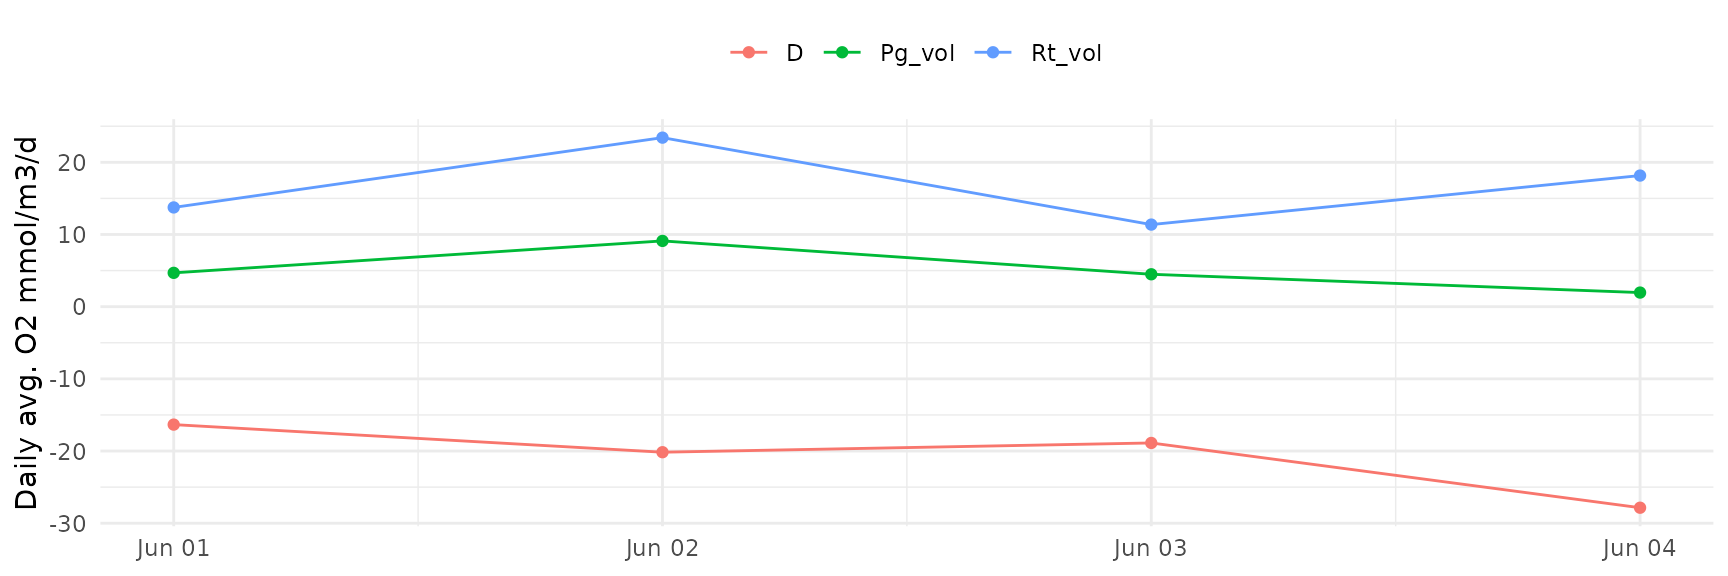
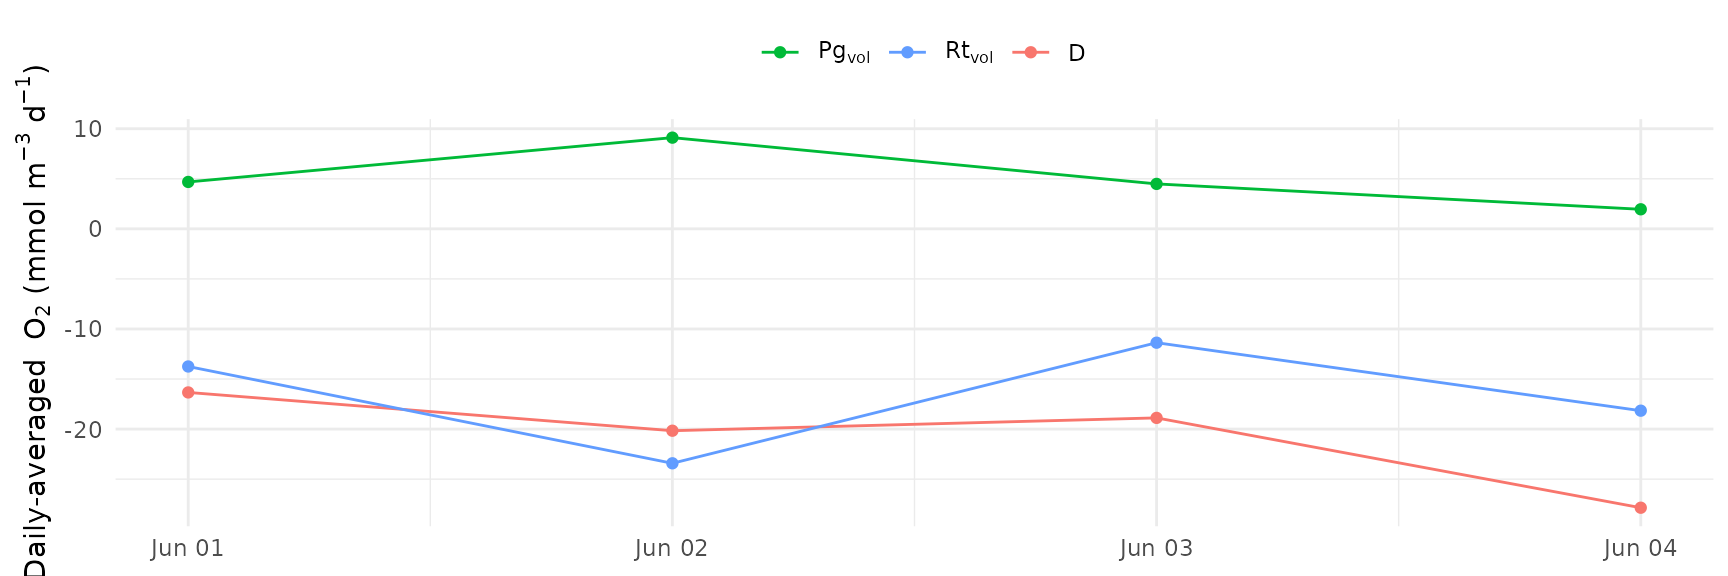
Built site for EBASE: 0.0.0.9000@430d1d3

diff --git a/reference/ebase_plot.html b/reference/ebase_plot.html
@@ -1,0 +1,125 @@
+<!DOCTYPE html>
+<!-- Generated by pkgdown: do not edit by hand --><html lang="en"><head><meta http-equiv="Content-Type" content="text/html; charset=UTF-8"><meta charset="utf-8"><meta http-equiv="X-UA-Compatible" content="IE=edge"><meta name="viewport" content="width=device-width, initial-scale=1, shrink-to-fit=no"><meta name="description" content="Plot results from EBASE"><title>Plot results from EBASE — ebase_plot • EBASE</title><script src="../deps/jquery-3.6.0/jquery-3.6.0.min.js"></script><meta name="viewport" content="width=device-width, initial-scale=1, shrink-to-fit=no"><link href="../deps/bootstrap-5.1.0/bootstrap.min.css" rel="stylesheet"><script src="../deps/bootstrap-5.1.0/bootstrap.bundle.min.js"></script><!-- Font Awesome icons --><link rel="stylesheet" href="https://cdnjs.cloudflare.com/ajax/libs/font-awesome/5.12.1/css/all.min.css" integrity="sha256-mmgLkCYLUQbXn0B1SRqzHar6dCnv9oZFPEC1g1cwlkk=" crossorigin="anonymous"><link rel="stylesheet" href="https://cdnjs.cloudflare.com/ajax/libs/font-awesome/5.12.1/css/v4-shims.min.css" integrity="sha256-wZjR52fzng1pJHwx4aV2AO3yyTOXrcDW7jBpJtTwVxw=" crossorigin="anonymous"><!-- bootstrap-toc --><script src="https://cdn.rawgit.com/afeld/bootstrap-toc/v1.0.1/dist/bootstrap-toc.min.js"></script><!-- headroom.js --><script src="https://cdnjs.cloudflare.com/ajax/libs/headroom/0.11.0/headroom.min.js" integrity="sha256-AsUX4SJE1+yuDu5+mAVzJbuYNPHj/WroHuZ8Ir/CkE0=" crossorigin="anonymous"></script><script src="https://cdnjs.cloudflare.com/ajax/libs/headroom/0.11.0/jQuery.headroom.min.js" integrity="sha256-ZX/yNShbjqsohH1k95liqY9Gd8uOiE1S4vZc+9KQ1K4=" crossorigin="anonymous"></script><!-- clipboard.js --><script src="https://cdnjs.cloudflare.com/ajax/libs/clipboard.js/2.0.6/clipboard.min.js" integrity="sha256-inc5kl9MA1hkeYUt+EC3BhlIgyp/2jDIyBLS6k3UxPI=" crossorigin="anonymous"></script><!-- search --><script src="https://cdnjs.cloudflare.com/ajax/libs/fuse.js/6.4.6/fuse.js" integrity="sha512-zv6Ywkjyktsohkbp9bb45V6tEMoWhzFzXis+LrMehmJZZSys19Yxf1dopHx7WzIKxr5tK2dVcYmaCk2uqdjF4A==" crossorigin="anonymous"></script><script src="https://cdnjs.cloudflare.com/ajax/libs/autocomplete.js/0.38.0/autocomplete.jquery.min.js" integrity="sha512-GU9ayf+66Xx2TmpxqJpliWbT5PiGYxpaG8rfnBEk1LL8l1KGkRShhngwdXK1UgqhAzWpZHSiYPc09/NwDQIGyg==" crossorigin="anonymous"></script><script src="https://cdnjs.cloudflare.com/ajax/libs/mark.js/8.11.1/mark.min.js" integrity="sha512-5CYOlHXGh6QpOFA/TeTylKLWfB3ftPsde7AnmhuitiTX4K5SqCLBeKro6sPS8ilsz1Q4NRx3v8Ko2IBiszzdww==" crossorigin="anonymous"></script><!-- pkgdown --><script src="../pkgdown.js"></script><meta property="og:title" content="Plot results from EBASE — ebase_plot"><meta property="og:description" content="Plot results from EBASE"><!-- mathjax --><script src="https://cdnjs.cloudflare.com/ajax/libs/mathjax/2.7.5/MathJax.js" integrity="sha256-nvJJv9wWKEm88qvoQl9ekL2J+k/RWIsaSScxxlsrv8k=" crossorigin="anonymous"></script><script src="https://cdnjs.cloudflare.com/ajax/libs/mathjax/2.7.5/config/TeX-AMS-MML_HTMLorMML.js" integrity="sha256-84DKXVJXs0/F8OTMzX4UR909+jtl4G7SPypPavF+GfA=" crossorigin="anonymous"></script><!--[if lt IE 9]>
+<script src="https://oss.maxcdn.com/html5shiv/3.7.3/html5shiv.min.js"></script>
+<script src="https://oss.maxcdn.com/respond/1.4.2/respond.min.js"></script>
+<![endif]--></head><body>
+    <a href="#main" class="visually-hidden-focusable">Skip to contents</a>
+    
+
+    <nav class="navbar fixed-top navbar-light navbar-expand-lg bg-light"><div class="container">
+    
+    <a class="navbar-brand me-2" href="../index.html">EBASE</a>
+
+    <small class="nav-text text-muted me-auto" data-bs-toggle="tooltip" data-bs-placement="bottom" title="">0.0.0.9000</small>
+
+    
+    <button class="navbar-toggler" type="button" data-bs-toggle="collapse" data-bs-target="#navbar" aria-controls="navbar" aria-expanded="false" aria-label="Toggle navigation">
+      <span class="navbar-toggler-icon"></span>
+    </button>
+
+    <div id="navbar" class="collapse navbar-collapse ms-3">
+      <ul class="navbar-nav me-auto"><li class="active nav-item">
+  <a class="nav-link" href="../reference/index.html">Reference</a>
+</li>
+<li class="nav-item dropdown">
+  <a href="#" class="nav-link dropdown-toggle" data-bs-toggle="dropdown" role="button" aria-expanded="false" aria-haspopup="true" id="dropdown-articles">Articles</a>
+  <div class="dropdown-menu" aria-labelledby="dropdown-articles">
+    <a class="dropdown-item" href="../articles/ebase-overview.html">EBASE overview</a>
+  </div>
+</li>
+      </ul><form class="form-inline my-2 my-lg-0" role="search">
+        <input type="search" class="form-control me-sm-2" aria-label="Toggle navigation" name="search-input" data-search-index="../search.json" id="search-input" placeholder="Search for" autocomplete="off"></form>
+
+      <ul class="navbar-nav"><li class="nav-item">
+  <a class="external-link nav-link" href="https://github.com/fawda123/EBASE/" aria-label="github">
+    <span class="fab fa fab fa-github fa-lg"></span>
+     
+  </a>
+</li>
+      </ul></div>
+
+    
+  </div>
+</nav><div class="container template-reference-topic">
+<div class="row">
+  <main id="main" class="col-md-9"><div class="page-header">
+      <img src="" class="logo" alt=""><h1>Plot results from EBASE</h1>
+      <small class="dont-index">Source: <a href="https://github.com/fawda123/EBASE/blob/HEAD/R/ebase_plot.R" class="external-link"><code>R/ebase_plot.R</code></a></small>
+      <div class="d-none name"><code>ebase_plot.Rd</code></div>
+    </div>
+
+    <div class="ref-description section level2">
+    <p>Plot results from EBASE</p>
+    </div>
+
+    <div class="section level2">
+    <h2 id="ref-usage">Usage<a class="anchor" aria-label="anchor" href="#ref-usage"></a></h2>
+    <div class="sourceCode"><pre class="sourceCode r"><code><span class="fu">ebase_plot</span><span class="op">(</span><span class="va">res</span>, instantaneous <span class="op">=</span> <span class="cn">TRUE</span><span class="op">)</span></code></pre></div>
+    </div>
+
+    <div class="section level2">
+    <h2 id="arguments">Arguments<a class="anchor" aria-label="anchor" href="#arguments"></a></h2>
+    <dl><dt>res</dt>
+<dd><p>output data frame from <code><a href="ebase.html">ebase</a></code></p></dd>
+<dt>instantaneous</dt>
+<dd><p>logical indicating if results are instantaneous (default) or averaged to daily</p></dd>
+</dl></div>
+    <div class="section level2">
+    <h2 id="value">Value<a class="anchor" aria-label="anchor" href="#value"></a></h2>
+    <p>A <code><a href="https://ggplot2.tidyverse.org/reference/ggplot.html" class="external-link">ggplot</a></code> object</p>
+    </div>
+    <div class="section level2">
+    <h2 id="details">Details<a class="anchor" aria-label="anchor" href="#details"></a></h2>
+    <p>Both <code>D</code> and <code>Rt_vol</code> are plotted as negative values to express their contribution to net metabolism.</p>
+    </div>
+
+    <div class="section level2">
+    <h2 id="ref-examples">Examples<a class="anchor" aria-label="anchor" href="#ref-examples"></a></h2>
+    <div class="sourceCode"><pre class="sourceCode r"><code><span class="r-in"><span class="kw"><a href="https://rdrr.io/r/base/library.html" class="external-link">library</a></span><span class="op">(</span><span class="va"><a href="https://dplyr.tidyverse.org" class="external-link">dplyr</a></span><span class="op">)</span></span>
+<span class="r-in"><span class="kw"><a href="https://rdrr.io/r/base/library.html" class="external-link">library</a></span><span class="op">(</span><span class="va"><a href="https://lubridate.tidyverse.org" class="external-link">lubridate</a></span><span class="op">)</span></span>
+<span class="r-in"><span class="kw"><a href="https://rdrr.io/r/base/library.html" class="external-link">library</a></span><span class="op">(</span><span class="va"><a href="https://github.com/RevolutionAnalytics/doparallel" class="external-link">doParallel</a></span><span class="op">)</span></span>
+<span class="r-in"></span>
+<span class="r-in"><span class="co"># get four days of data</span></span>
+<span class="r-in"><span class="va">dat</span> <span class="op">&lt;-</span> <span class="va">exdat</span> <span class="op"><a href="https://magrittr.tidyverse.org/reference/pipe.html" class="external-link">%&gt;%</a></span> </span>
+<span class="r-in">  <span class="fu"><a href="https://dplyr.tidyverse.org/reference/filter.html" class="external-link">filter</a></span><span class="op">(</span><span class="fu"><a href="https://lubridate.tidyverse.org/reference/month.html" class="external-link">month</a></span><span class="op">(</span><span class="va">exdat</span><span class="op">$</span><span class="va">DateTimeStamp</span><span class="op">)</span> <span class="op">==</span> <span class="fl">6</span> <span class="op">&amp;</span> <span class="fu"><a href="https://lubridate.tidyverse.org/reference/day.html" class="external-link">day</a></span><span class="op">(</span><span class="va">exdat</span><span class="op">$</span><span class="va">DateTimeStamp</span><span class="op">)</span> <span class="op"><a href="https://rdrr.io/r/base/match.html" class="external-link">%in%</a></span> <span class="fl">1</span><span class="op">:</span><span class="fl">4</span><span class="op">)</span></span>
+<span class="r-in"></span>
+<span class="r-in"><span class="co"># run ebase with defaults, parallel</span></span>
+<span class="r-in"></span>
+<span class="r-in"><span class="co"># setup parallel backend</span></span>
+<span class="r-in"><span class="va">cl</span> <span class="op">&lt;-</span> <span class="fu"><a href="https://rdrr.io/r/parallel/makeCluster.html" class="external-link">makeCluster</a></span><span class="op">(</span><span class="fl">2</span><span class="op">)</span></span>
+<span class="r-in"><span class="fu"><a href="https://rdrr.io/pkg/doParallel/man/registerDoParallel.html" class="external-link">registerDoParallel</a></span><span class="op">(</span><span class="va">cl</span><span class="op">)</span></span>
+<span class="r-in"></span>
+<span class="r-in"><span class="va">res</span> <span class="op">&lt;-</span> <span class="fu"><a href="ebase.html">ebase</a></span><span class="op">(</span><span class="va">dat</span>, interval <span class="op">=</span> <span class="fl">900</span>, H <span class="op">=</span> <span class="fl">1.85</span>, progress <span class="op">=</span> <span class="cn">TRUE</span>, n.chains <span class="op">=</span> <span class="fl">2</span><span class="op">)</span></span>
+<span class="r-wrn co"><span class="r-pr">#&gt;</span> <span class="warning">Warning: </span>already exporting variable(s): mod_in</span>
+<span class="r-in"></span>
+<span class="r-in"><span class="fu"><a href="https://rdrr.io/r/parallel/makeCluster.html" class="external-link">stopCluster</a></span><span class="op">(</span><span class="va">cl</span><span class="op">)</span></span>
+<span class="r-in"></span>
+<span class="r-in"><span class="co"># plot instantaneous</span></span>
+<span class="r-in"><span class="fu">ebase_plot</span><span class="op">(</span><span class="va">res</span><span class="op">)</span></span>
+<span class="r-plt img"><img src="ebase_plot-1.png" alt="" width="700" height="433"></span>
+<span class="r-in"></span>
+<span class="r-in"><span class="co"># plot daily-averaged</span></span>
+<span class="r-in"><span class="fu">ebase_plot</span><span class="op">(</span><span class="va">res</span>, instantaneous <span class="op">=</span> <span class="cn">FALSE</span><span class="op">)</span></span>
+<span class="r-plt img"><img src="ebase_plot-2.png" alt="" width="700" height="433"></span>
+</code></pre></div>
+    </div>
+  </main><aside class="col-md-3"><nav id="toc"><h2>On this page</h2>
+    </nav></aside></div>
+
+
+    <footer><div class="pkgdown-footer-left">
+  <p></p><p>Developed by Marcus Beck, Maria Herrmann, Jill Arriola, Raymond Najjar, Wade McGillis.</p>
+</div>
+
+<div class="pkgdown-footer-right">
+  <p></p><p>Site built with <a href="https://pkgdown.r-lib.org/" class="external-link">pkgdown</a> 2.0.2.</p>
+</div>
+
+    </footer></div>
+
+  
+
+  
+
+  </body></html>
+

diff --git a/articles/ebase-overview.html b/articles/ebase-overview.html
@@ -138,57 +138,21 @@
 <span class="co">#&gt; 5 2012-06-01 160.7834 161.8209 2012-06-01 01:00:00 -6.423503 0.00766078</span>
 <span class="co">#&gt; 6 2012-06-01 160.5211 161.7332 2012-06-01 01:15:00 -8.420908 0.00766078</span>
 <span class="co">#&gt; 7 2012-06-01 160.2787 161.6509 2012-06-01 01:30:00 -7.903096 0.00766078</span>
-<span class="co">#&gt;           b Pg_vol   Rt_vol         D</span>
-<span class="co">#&gt; 2 0.2259031      0 13.74739 -7.354905</span>
-<span class="co">#&gt; 3 0.2259031      0 13.74739 -9.665015</span>
-<span class="co">#&gt; 4 0.2259031      0 13.74739 -8.043508</span>
-<span class="co">#&gt; 5 0.2259031      0 13.74739 -7.323884</span>
-<span class="co">#&gt; 6 0.2259031      0 13.74739 -5.326479</span>
-<span class="co">#&gt; 7 0.2259031      0 13.74739 -5.844291</span></code></pre></div>
+<span class="co">#&gt;           b Pg_vol   Rt_vol        D</span>
+<span class="co">#&gt; 2 0.2259031      0 13.74739 7.354905</span>
+<span class="co">#&gt; 3 0.2259031      0 13.74739 9.665015</span>
+<span class="co">#&gt; 4 0.2259031      0 13.74739 8.043508</span>
+<span class="co">#&gt; 5 0.2259031      0 13.74739 7.323884</span>
+<span class="co">#&gt; 6 0.2259031      0 13.74739 5.326479</span>
+<span class="co">#&gt; 7 0.2259031      0 13.74739 5.844291</span></code></pre></div>
 <p>The results are returned as a data frame with instantaneous metabolic estimates for volumetric gross production (O2 mmol/m3/d, <code>Pg_vol</code> or <span class="math inline">\(aPAR\)</span> from above), respiration (O2 mmol/m3/d, <code>Rt_vol</code> or <span class="math inline">\(r\)</span> from above), and gas exchange (O2 mmol/m3/d, <code>D</code> or the remainder of the equation from abov). Additional parameters estimated by the model that are returned include <code>a</code> and <code>b</code> as shown in the above equation. The <code>a</code> parameter is a constant that represents the primary production per quantum of light with units of (mmol/m3/d)(W/m2) and is used to estimate gross production <span class="citation">(Grace et al. 2015)</span>. The <code>b</code> parameter is a constant used to estimate gas exchange in hr/cm (provided as 0.251 in eqn. 4 in <span class="citation">Wanninkhof (2014)</span>).</p>
-<p>A plot of the results can easily be made with <a href="https://ggplot2.tidyverse.org/" class="external-link">ggplot</a>. The instantaneous rates at the daily scale can be plotted after some wrangling with <a href="https://dplyr.tidyverse.org/" class="external-link">dplyr</a> and <a href="https://tidyr.tidyverse.org/" class="external-link">tidyr</a>. These packages are dependencies for EBASE and do not need to be separately installed.</p>
+<p>A plot of the results can be made with <code><a href="../reference/ebase_plot.html">ebase_plot()</a></code>.</p>
 <div class="sourceCode" id="cb6"><pre class="downlit sourceCode r">
-<code class="sourceCode R"><span class="kw"><a href="https://rdrr.io/r/base/library.html" class="external-link">library</a></span><span class="op">(</span><span class="va"><a href="https://ggplot2.tidyverse.org" class="external-link">ggplot2</a></span><span class="op">)</span>
-<span class="kw"><a href="https://rdrr.io/r/base/library.html" class="external-link">library</a></span><span class="op">(</span><span class="va"><a href="https://dplyr.tidyverse.org" class="external-link">dplyr</a></span><span class="op">)</span>
-<span class="kw"><a href="https://rdrr.io/r/base/library.html" class="external-link">library</a></span><span class="op">(</span><span class="va"><a href="https://tidyr.tidyverse.org" class="external-link">tidyr</a></span><span class="op">)</span>
-
-<span class="va">toplo</span> <span class="op">&lt;-</span> <span class="va">res</span> <span class="op"><a href="https://magrittr.tidyverse.org/reference/pipe.html" class="external-link">%&gt;%</a></span> 
-  <span class="fu"><a href="https://dplyr.tidyverse.org/reference/select.html" class="external-link">select</a></span><span class="op">(</span><span class="va">DateTimeStamp</span>, <span class="va">Pg_vol</span>, <span class="va">Rt_vol</span>, <span class="va">D</span><span class="op">)</span> <span class="op"><a href="https://magrittr.tidyverse.org/reference/pipe.html" class="external-link">%&gt;%</a></span> 
-  <span class="fu"><a href="https://tidyr.tidyverse.org/reference/pivot_longer.html" class="external-link">pivot_longer</a></span><span class="op">(</span>cols <span class="op">=</span> <span class="op">-</span><span class="fu"><a href="https://tidyselect.r-lib.org/reference/starts_with.html" class="external-link">matches</a></span><span class="op">(</span><span class="st">'DateTimeStamp'</span><span class="op">)</span><span class="op">)</span>
-
-<span class="fu"><a href="https://ggplot2.tidyverse.org/reference/ggplot.html" class="external-link">ggplot</a></span><span class="op">(</span><span class="va">toplo</span>, <span class="fu"><a href="https://ggplot2.tidyverse.org/reference/aes.html" class="external-link">aes</a></span><span class="op">(</span>x <span class="op">=</span> <span class="va">DateTimeStamp</span>, y <span class="op">=</span> <span class="va">value</span>, color <span class="op">=</span> <span class="va">name</span><span class="op">)</span><span class="op">)</span> <span class="op">+</span>
-  <span class="fu"><a href="https://ggplot2.tidyverse.org/reference/geom_path.html" class="external-link">geom_line</a></span><span class="op">(</span><span class="op">)</span> <span class="op">+</span> 
-  <span class="fu"><a href="https://ggplot2.tidyverse.org/reference/geom_point.html" class="external-link">geom_point</a></span><span class="op">(</span><span class="op">)</span> <span class="op">+</span> 
-  <span class="fu"><a href="https://ggplot2.tidyverse.org/reference/ggtheme.html" class="external-link">theme_minimal</a></span><span class="op">(</span><span class="op">)</span> <span class="op">+</span> 
-  <span class="fu"><a href="https://ggplot2.tidyverse.org/reference/theme.html" class="external-link">theme</a></span><span class="op">(</span>
-    legend.position <span class="op">=</span> <span class="st">'top'</span>
-  <span class="op">)</span> <span class="op">+</span>
-  <span class="fu"><a href="https://ggplot2.tidyverse.org/reference/labs.html" class="external-link">labs</a></span><span class="op">(</span>
-    y <span class="op">=</span> <span class="st">'Instantaneous O2 mmol/m3/d'</span>, 
-    color <span class="op">=</span> <span class="cn">NULL</span>, 
-    x <span class="op">=</span> <span class="cn">NULL</span>
-  <span class="op">)</span></code></pre></div>
+<code class="sourceCode R"><span class="fu"><a href="../reference/ebase_plot.html">ebase_plot</a></span><span class="op">(</span><span class="va">res</span><span class="op">)</span></code></pre></div>
 <p><img src="ebase-overview_files/figure-html/unnamed-chunk-5-1.png" width="864" style="display: block; margin: auto;"></p>
-<p>The daily averages can also be plotted after summarizing the results.</p>
+<p>The daily averages can also be plotted by using <code>instantaneous = FALSE</code>.</p>
 <div class="sourceCode" id="cb7"><pre class="downlit sourceCode r">
-<code class="sourceCode R"><span class="va">toplo</span> <span class="op">&lt;-</span> <span class="va">res</span> <span class="op"><a href="https://magrittr.tidyverse.org/reference/pipe.html" class="external-link">%&gt;%</a></span> 
-  <span class="fu"><a href="https://dplyr.tidyverse.org/reference/select.html" class="external-link">select</a></span><span class="op">(</span><span class="va">Date</span>, <span class="va">Pg_vol</span>, <span class="va">Rt_vol</span>, <span class="va">D</span><span class="op">)</span> <span class="op"><a href="https://magrittr.tidyverse.org/reference/pipe.html" class="external-link">%&gt;%</a></span> 
-  <span class="fu"><a href="https://tidyr.tidyverse.org/reference/pivot_longer.html" class="external-link">pivot_longer</a></span><span class="op">(</span>cols <span class="op">=</span> <span class="op">-</span><span class="fu"><a href="https://tidyselect.r-lib.org/reference/starts_with.html" class="external-link">matches</a></span><span class="op">(</span><span class="st">'Date'</span><span class="op">)</span><span class="op">)</span> <span class="op"><a href="https://magrittr.tidyverse.org/reference/pipe.html" class="external-link">%&gt;%</a></span> 
-  <span class="fu"><a href="https://dplyr.tidyverse.org/reference/group_by.html" class="external-link">group_by</a></span><span class="op">(</span><span class="va">Date</span>, <span class="va">name</span><span class="op">)</span> <span class="op"><a href="https://magrittr.tidyverse.org/reference/pipe.html" class="external-link">%&gt;%</a></span> 
-  <span class="fu"><a href="https://dplyr.tidyverse.org/reference/summarise.html" class="external-link">summarise</a></span><span class="op">(</span>value <span class="op">=</span> <span class="fu"><a href="https://rdrr.io/r/base/mean.html" class="external-link">mean</a></span><span class="op">(</span><span class="va">value</span>, na.rm <span class="op">=</span> <span class="cn">T</span><span class="op">)</span>, .groups <span class="op">=</span> <span class="st">'drop'</span><span class="op">)</span>
-
-<span class="fu"><a href="https://ggplot2.tidyverse.org/reference/ggplot.html" class="external-link">ggplot</a></span><span class="op">(</span><span class="va">toplo</span>, <span class="fu"><a href="https://ggplot2.tidyverse.org/reference/aes.html" class="external-link">aes</a></span><span class="op">(</span>x <span class="op">=</span> <span class="va">Date</span>, y <span class="op">=</span> <span class="va">value</span>, color <span class="op">=</span> <span class="va">name</span><span class="op">)</span><span class="op">)</span> <span class="op">+</span>
-  <span class="fu"><a href="https://ggplot2.tidyverse.org/reference/geom_path.html" class="external-link">geom_line</a></span><span class="op">(</span><span class="op">)</span> <span class="op">+</span> 
-  <span class="fu"><a href="https://ggplot2.tidyverse.org/reference/geom_point.html" class="external-link">geom_point</a></span><span class="op">(</span><span class="op">)</span> <span class="op">+</span> 
-  <span class="fu"><a href="https://ggplot2.tidyverse.org/reference/ggtheme.html" class="external-link">theme_minimal</a></span><span class="op">(</span><span class="op">)</span> <span class="op">+</span> 
-  <span class="fu"><a href="https://ggplot2.tidyverse.org/reference/theme.html" class="external-link">theme</a></span><span class="op">(</span>
-    legend.position <span class="op">=</span> <span class="st">'top'</span>
-  <span class="op">)</span> <span class="op">+</span>
-  <span class="fu"><a href="https://ggplot2.tidyverse.org/reference/labs.html" class="external-link">labs</a></span><span class="op">(</span>
-    y <span class="op">=</span> <span class="st">'Daily avg. O2 mmol/m3/d'</span>, 
-    color <span class="op">=</span> <span class="cn">NULL</span>, 
-    x <span class="op">=</span> <span class="cn">NULL</span>
-  <span class="op">)</span></code></pre></div>
+<code class="sourceCode R"><span class="fu"><a href="../reference/ebase_plot.html">ebase_plot</a></span><span class="op">(</span><span class="va">res</span>, instantaneous <span class="op">=</span> <span class="cn">FALSE</span><span class="op">)</span></code></pre></div>
 <p><img src="ebase-overview_files/figure-html/unnamed-chunk-6-1.png" width="864" style="display: block; margin: auto;"></p>
 <p>Execution time of the model can also be reduced by registering a parallel backend.</p>
 <div class="sourceCode" id="cb8"><pre class="downlit sourceCode r">

diff --git a/reference/index.html b/reference/index.html
@@ -69,6 +69,11 @@
         <dd>EBASE JAGS model</dd>
       </dl><dl><dt>
           
+          <code><a href="ebase_plot.html">ebase_plot()</a></code> 
+        </dt>
+        <dd>Plot results from EBASE</dd>
+      </dl><dl><dt>
+          
           <code><a href="ebase_prep.html">ebase_prep()</a></code> 
         </dt>
         <dd>Prepare data for ebase</dd>
